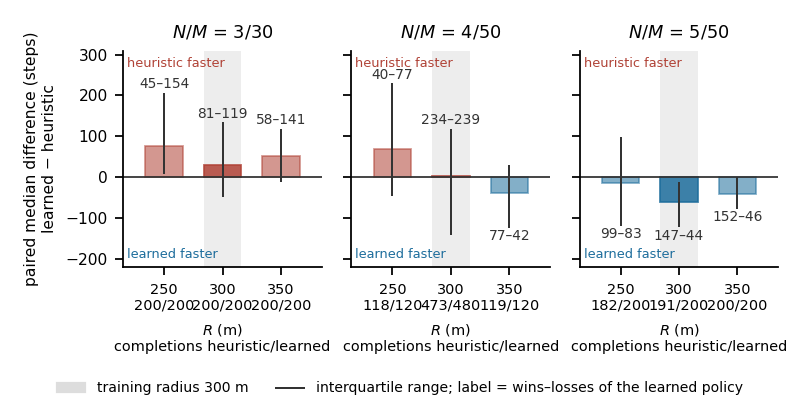
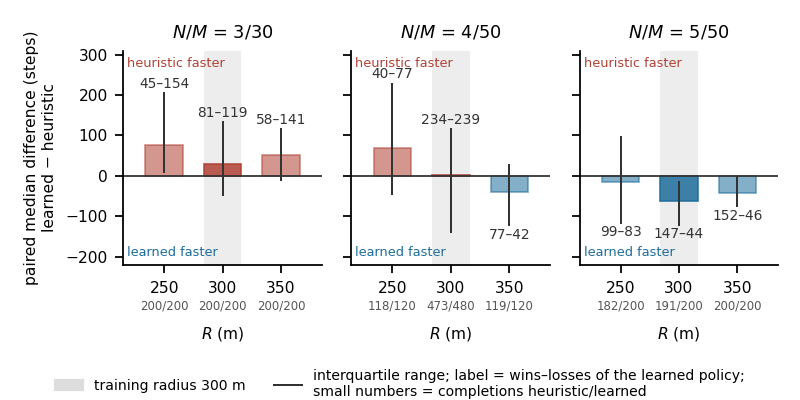
paper: radius figure, completion row separated from axis label

diff --git a/proposed_src/util/paper_figs_v5_26_10_17_15.py b/proposed_src/util/paper_figs_v5_26_10_17_15.py
@@ -198,11 +198,15 @@ def fig_range(tag, files):
 			ymin, ymax = min(ymin, q1), max(ymax, q3)
 		ax.axhline(0, color="#333", lw=0.8)
 		ax.axvspan(284, 316, color="#ddd", alpha=0.5, lw=0, zorder=0)
-		ax.set_xticks(Rs); ax.set_xticklabels([f"{r}\n{comp.get(r, '')}" for r in Rs], fontsize=6.5)
+		ax.set_xticks(Rs); ax.set_xticklabels([str(r) for r in Rs], fontsize=7)
+		import matplotlib.transforms as mtr
+		tr = mtr.blended_transform_factory(ax.transData, ax.transAxes)
+		for r in Rs:
+			ax.text(r, -0.16, comp.get(r, ""), transform=tr, ha="center", va="top", fontsize=5.3, color="#555")
 		ax.set_xlim(Rs[0] - 35, Rs[-1] + 35)
 		ax.set_title(f"$N/M$ = {lab}", fontsize=8)
 		ax.tick_params(axis="y", labelsize=7)
-		ax.set_xlabel("$R$ (m)\ncompletions heuristic/learned", fontsize=6.5)
+		ax.set_xlabel("$R$ (m)", fontsize=7, labelpad=13)
 	axes[0].set_ylabel("paired median difference (steps)\nlearned − heuristic", fontsize=7)
 	pad = 0.22 * (ymax - ymin)
 	axes[0].set_ylim(ymin - pad, ymax + pad)
@@ -211,9 +215,9 @@ def fig_range(tag, files):
 		ax.text(0.02, 0.03, "learned faster", transform=ax.transAxes, fontsize=5.8, color=C_L, va="bottom")
 	from matplotlib.patches import Patch
 	fig.legend(handles=[Patch(color="#ddd", label="training radius 300 m"),
-	                    plt.Line2D([], [], color="#333", lw=0.9, label="interquartile range; label = wins–losses of the learned policy")],
-	           loc="lower center", ncol=2, frameon=False, fontsize=6.3, bbox_to_anchor=(0.5, -0.02))
-	fig.tight_layout(rect=(0, 0.05, 1, 1))
+	                    plt.Line2D([], [], color="#333", lw=0.9, label="interquartile range; label = wins–losses of the learned policy;\nsmall numbers = completions heuristic/learned")],
+	           loc="lower center", ncol=2, frameon=False, fontsize=6.3, bbox_to_anchor=(0.5, -0.03))
+	fig.tight_layout(rect=(0, 0.08, 1, 1))
 	out = os.path.join(FIG, f"fig_range_v5_{tag}.pdf")
 	fig.savefig(out); fig.savefig(out.replace(".pdf", ".png"), dpi=160); plt.close(fig)
 	print("저장:", out)
